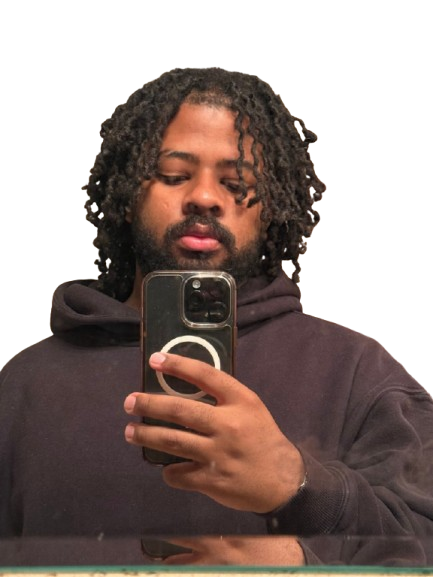
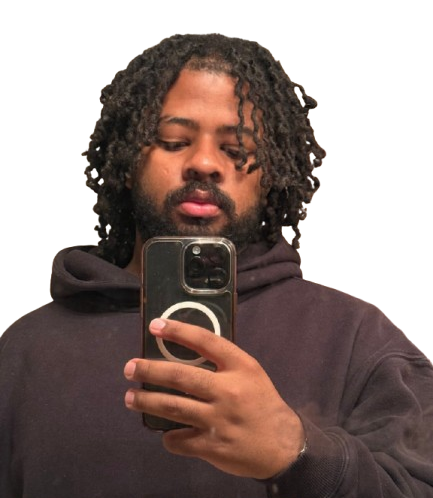
resize portrait to 62vh and update cropped image

Changed region(s): [[0.0, 0.0602, 1.0, 1.0], [0.8106, 0.6325, 0.8406, 0.6627]]

diff --git a/style.css b/style.css
@@ -30,7 +30,7 @@ body {
   bottom: 0;
   left: 50%;
   transform: translateX(-50%);
-  height: 80vh;
+  height: 62vh;
   width: auto;
   pointer-events: none;
   z-index: 0;